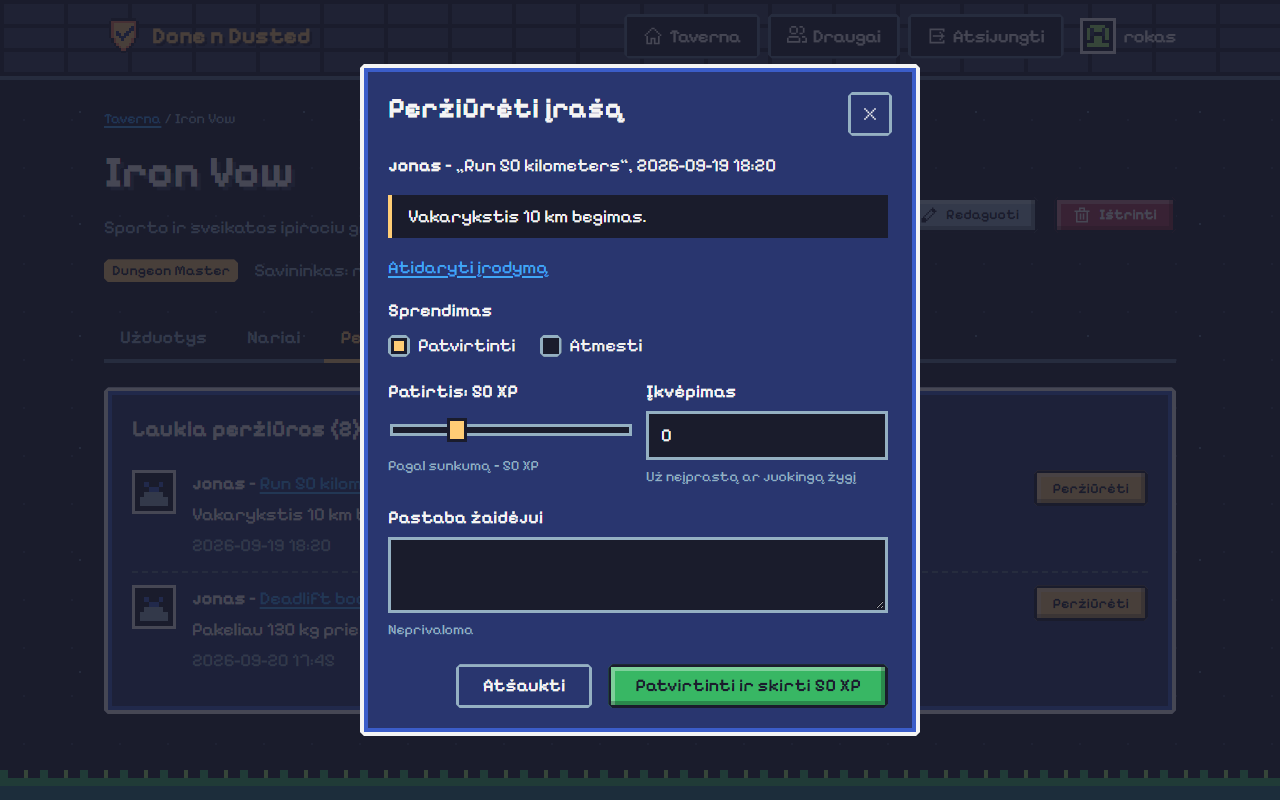
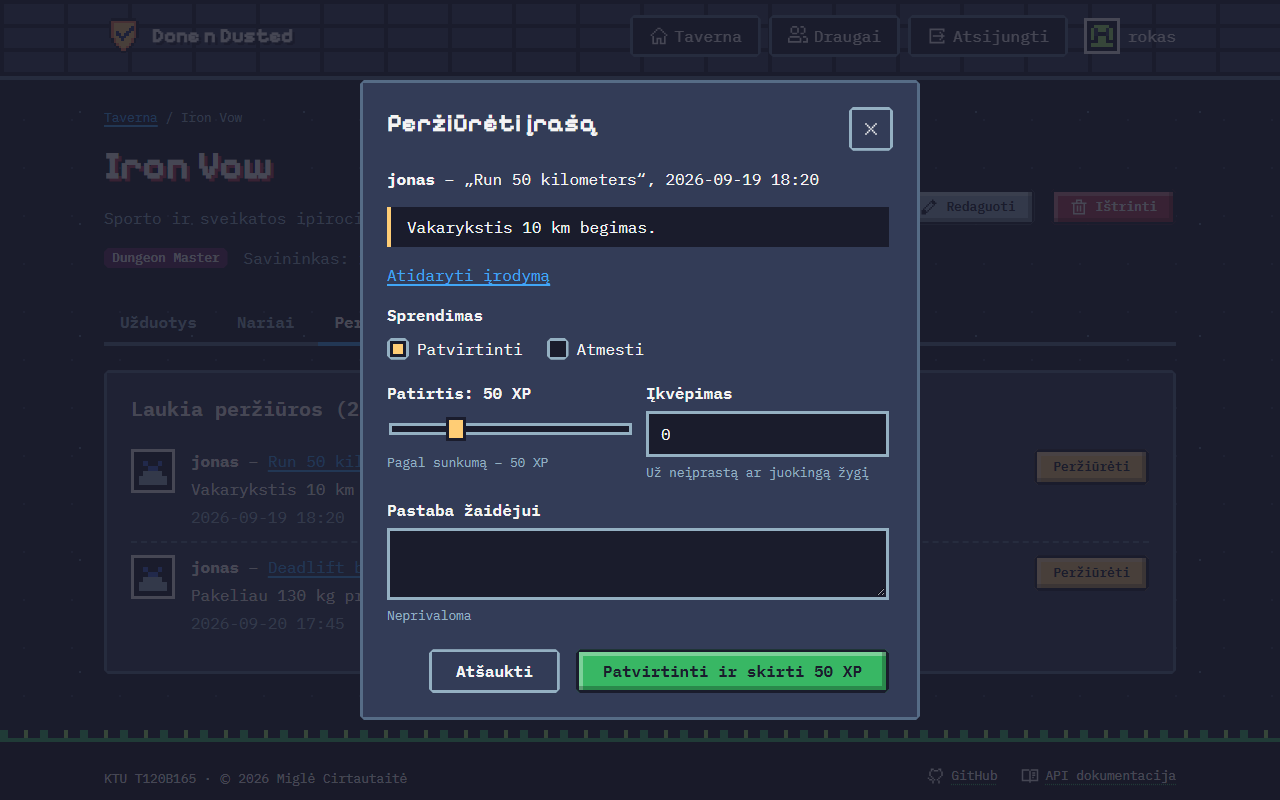
Update docs for the new look

diff --git a/docs/LD3.md b/docs/LD3.md
@@ -15,19 +15,19 @@ API aprašas — [`API.md`](API.md). Šaka `ld3`, žyma `v0.3.0`.
 | Sąsaja REST API | 31 iš 35 API metodų: grupės, užduotys, įrašai, nariai, kortelė, draugai, naudotojai, autentifikacija. Nenaudojami tik 4 pavieniai `GET` pagal ID (įrašas, narys, naudotojas, draugystė) — tie duomenys jau ateina sąraše | `frontend/src/api/endpoints.ts` |
 | Responsive, bent 1 breakpoint | Pagrindinis lūžis **768 px** (meniu, tinklelis, formos, sąrašai); papildomai 1024 px (3 stulpelių kortelės) | `styles/layout.css`, `styles/pages.css` |
 | Paveikslėlių prisitaikymas | `img, svg { max-width: 100%; height: auto }`; iliustracija ir avatarai mažėja kartu su konteineriu | `styles/base.css`, [ekrano nuotraukos](#3-ekrano-nuotraukos) |
-| Header, Content, Footer — skirtingi stiliai | Header — akmenų siena, auksinis logotipas, skirtukai; Content — RPG meniu langai ant žvaigždėto fono; Footer — žolė ir žemė, taškiniai pabraukimai | `styles/layout.css`, `styles/components.css` |
+| Header, Content, Footer — skirtingi stiliai | Header — akmenų siena, pikselinis logotipas, rėmeliuoti skirtukai; Content — `shadow` paviršiai su `slate` rėmeliu ant žvaigždėto fono; Footer — tamsiausia juosta su žolės skirtuku viršuje, taškiniai pabraukimai | `styles/layout.css`, `styles/components.css` |
 | Analogiški elementai skirtingose srityse atrodo skirtingai | Nuorodos: header'yje — skirtukai su rėmeliu, turinyje — mėlynos pabrauktos, footer'yje — baltos su taškiniu žaliu pabraukimu. Antraštės: header'yje — logotipas, turinyje — su šešėliu, footer'yje — žalios mažos | tie patys |
 | Įvedimo sąsaja, keli input tipai | `text`, `password`, `textarea`, `select`, `radio`, `checkbox`, `number`, `url`, `datetime-local`, `range`, `search` | `QuestFormModal`, `ReviewModal`, `QuestPage` (žygio forma), `AuthPages`, `AdminUsersPage` |
 | Transitions / animacijos | XP ir charakteristikų juostos užsipildo pikseliniais žingsniais; modalinis langas „iššoka“; pranešimai įslysta; mygtukas „nusispaudžia“; meniu išsiskleidžia; laukų rėmelio spalvos perėjimas. `prefers-reduced-motion` — animacijos išjungiamos | `styles/components.css` |
 | Responsive meniu (desktop — horizontalus, mobile — hamburger) | ≥ 768 px — horizontalūs skirtukai; < 768 px — hamburger mygtukas su `aria-expanded`, meniu išsiskleidžia po header'iu ir užsidaro pasirinkus punktą | `components/Layout.tsx`, `styles/layout.css` |
 | Vektorinės ikonos | [pixelarticons](https://pixelarticons.com) (SVG, MIT) per `@nsmr/pixelart-react`; logotipas, iliustracija ir avatarai — taip pat SVG | `components/StatIcon.tsx`, `public/*.svg` |
-| Kitoks šriftas | Google Fonts **Pixelify Sans** (400–700) — viena šeima visai sąsajai | `index.html` |
+| Kitoks šriftas | Google Fonts: **Pixelify Sans** — logotipui, H1 ir H2; **IBM Plex Mono** — tekstui, mygtukams, lentelėms ir skaičiams (`tabular-nums`). Pikselinio šrifto skaitmenys painiojosi (20 ↔ 80, 5 ↔ S), todėl jo skaičiams nenaudojam | `index.html`, `styles/tokens.css` |
 | Modalinis langas su prasminga informacija | „Kaip skaičiuojama patirtis?“ (XP lentelė ir formulės), DM įrašo peržiūra, užduoties ir grupės formos, draugo kortelė, trynimo patvirtinimas. Natūralus `<dialog>`: fokusas lange, `Esc` ir paspaudimas šalia uždaro | `components/ui.tsx` (`Modal`), `XpRulesModal.tsx`, `ReviewModal.tsx` |
 | Derančios spalvos | „Sweetie-16“ pikselių paletė (16 spalvų, sukurta derėti tarpusavyje); charakteristikos turi savo spalvas | `styles/tokens.css` |
 | Išdėstymas pagal tinklelį | 12 kolonų logika per CSS Grid (`grid--2`, `grid--3`, `grid--sidebar` 4/8), visi tarpai — 8 px kartotiniai, konteineris 1120 px | `styles/layout.css` |
 | Matomumas ir pasiekiamumas | Kontrastas tikrintas (tekstas ≥ 4,5:1), matomas fokusas (geltonas brūkšninis), „Pereiti prie turinio“ nuoroda, `aria-*` progreso juostoms, skirtukams ir meniu, etiketės visiems laukams, klaidos susietos su laukais | `styles/base.css`, `components/ui.tsx` |
 | Aiškios ir nuoseklios formos | Visur ta pati struktūra: etiketė → laukas → užuomina → klaida; serverio klaidos rodomos prie konkretaus lauko; veiksmo mygtukas sako, kas įvyks („Patvirtinti ir skirti 50 XP“) | `components/ui.tsx` (`Field`) |
-| Vientisas dizainas | Viena paletė, vienas šriftas, vienas „pikselio“ vienetas (4 px rėmeliai ir iškirpti kampai) visuose komponentuose | [5 skyrius](#5-dizaino-sistema) |
+| Vientisas dizainas | Viena paletė su 60/30/10 taisykle, dvi šriftų rolės, vienas „pikselio“ vienetas (rėmeliai ir iškirpti kampai) visuose komponentuose | [5 skyrius](#5-dizaino-sistema) |
 | Pasiekiama saityne (debesys) | Azure App Service + Azure Database for PostgreSQL: <https://done-n-dusted.azurewebsites.net> | [7 skyrius](#7-diegimas-į-debesį) |
 | Kodas Git, dokumentacija | GitHub, šakos `ld1`/`ld2`/`ld3`, PR istorija, šis dokumentas ir [`README.md`](../README.md) | |
 
@@ -92,8 +92,9 @@ meniu langai.
 
 | Žetonas | Reikšmė |
 | --- | --- |
-| Paletė | Sweetie-16: `midnight #1a1c2c` fonas, `navy #29366f` langai, `frost #f4f4f4` tekstas, `gold #ffcd75` veiksmai ir XP, `ruby`/`leaf`/`sky` būsenoms |
-| Šriftas | Pixelify Sans, skalė 1,25 (14–44 px), pagrindinis 18 px |
+| Paletė | Sweetie-16, taisyklė 60/30/10: `midnight #1a1c2c` fonas (60 %), `shadow #333c57` paviršiai su `slate` rėmeliu (30 %), `gold #ffcd75` — tik pagrindiniai veiksmai, lygis ir XP (10 %) |
+| Charakteristikų spalvos | Visame saite tos pačios: STR `ruby`, DEX `lime`, CON `ember`, INT `sky`, WIS `aqua`, CHA rožinė `#f08fb0` (`--stat-*` žetonai) |
+| Šriftai | Pixelify Sans (H1, H2, logotipas) ir IBM Plex Mono (visa kita), skalė 1,25, pagrindinis 16 px; H1 telefone ~32 px su `text-wrap: balance` |
 | Tinklelis | 8 px žingsnis, konteineris 1120 px, lūžiai 768 ir 1024 px |
 | „Pikselis“ | 4 px rėmeliai, iškirpti kampai (`clip-path`), šešėliai be suliejimo |
 | Judesys | `steps()` laiptinė animacija — kaip senuose žaidimuose; vienas automatinis momentas — kortelės juostos |

diff --git a/README.md b/README.md
@@ -26,7 +26,7 @@ demo accounts `rokas` (DM), `jonas` (player), `ieva` (password `Demo123!`); the 
 - **Character sheet**: level, XP progress, six stats, inspiration and streak; full view for the player and DM, public view for others
 - **Friendships**: requests, accept, block; friends see each other's public sheet across guilds
 - **Auth**: short-lived JWT access tokens, rotating refresh tokens with reuse detection, BCrypt passwords
-- **Pixel UI**: Sweetie-16 palette, Pixelify Sans, SVG pixel icons, procedurally generated 8×8 avatars, responsive layout with a 768 px breakpoint and a hamburger menu
+- **Pixel UI**: Sweetie-16 palette with a 60/30/10 rule and one colour per stat, Pixelify Sans headings with IBM Plex Mono text (readable numbers), SVG pixel icons, procedurally generated 8×8 avatars, responsive layout with a 768 px breakpoint and a hamburger menu
 
 ## Tech stack
 
